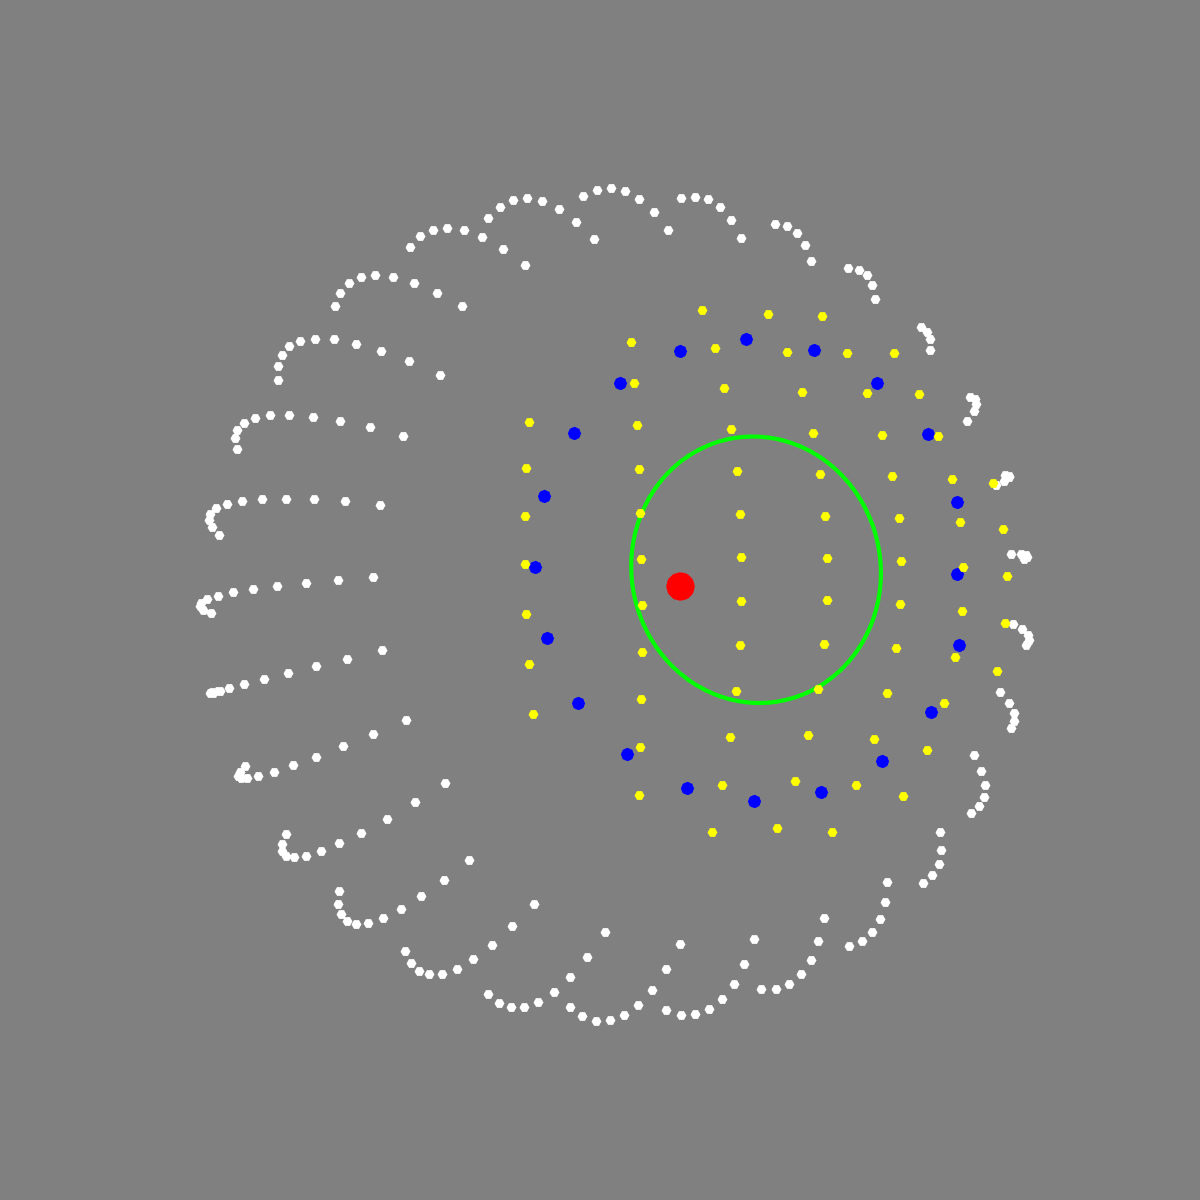
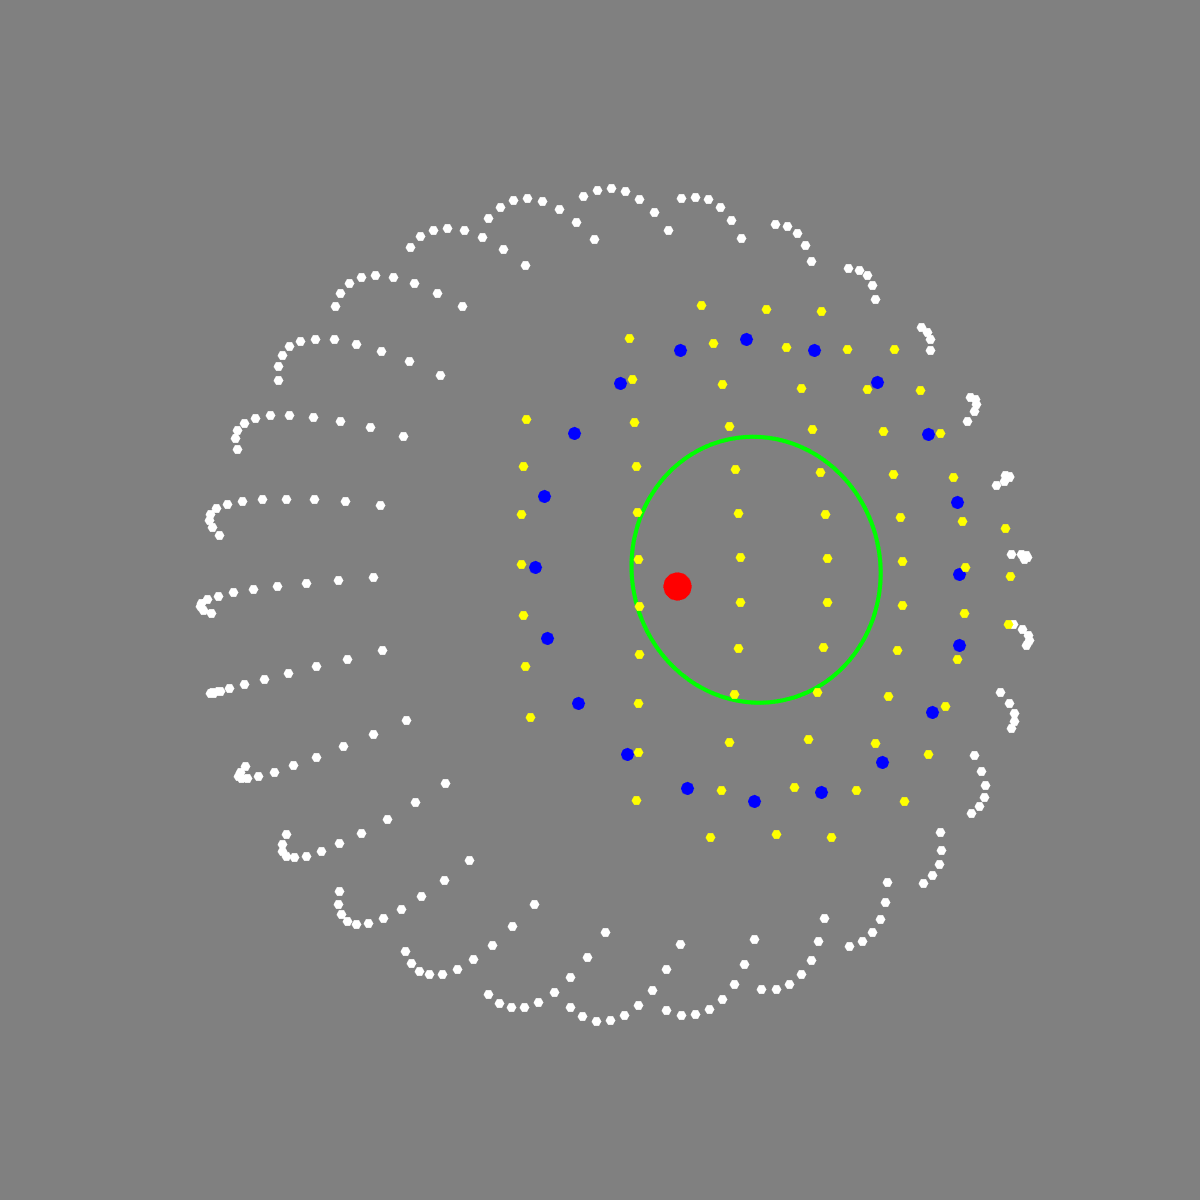
Update the repo images

Changed region(s): [[0.5242, 0.4625, 0.555, 0.4933], [0.5242, 0.4008, 0.555, 0.4317]]

diff --git a/img/generateImages.m b/img/generateImages.m
@@ -17,6 +17,9 @@ sceneGeometry=createSceneGeometry('calcLandmarkFovea',true);
 % Calculate the line of sight for the eye
 [outputRayLoS,rayPathLoS] = calcLineOfSightRay(sceneGeometry);
 
+% Add an iris and aperture stop for the optical system render
+sceneGeometry.refraction.retinaToCamera = addIris(sceneGeometry.refraction.retinaToCamera, 2, 'green');
+
 
 %% opticalSystem3D
 
@@ -42,13 +45,10 @@ R = quadric.normalizeRay( ...
     sceneGeometry.eye.landmarks.fovea.degField(1), ...
     sceneGeometry.eye.landmarks.fovea.degField(2)));
 
-% Perform the ray trace
-[outputRay, rayPath] = rayTraceQuadrics(R, sceneGeometry.refraction.retinaToCamera.opticalSystem);
-
 % Add this ray to the optical system plot
 plotOpticalSystem('surfaceSet',sceneGeometry.refraction.retinaToCamera, ...
     'newFigure',false,'addLighting',true, ...
-    'outputRay',outputRay,'rayPath',rayPath);
+    'outputRay',outputRayLoS,'rayPath',rayPathLoS);
 
 % Save this image
 filename = fullfile(functionDirPath,'opticalSystem3D.png');
